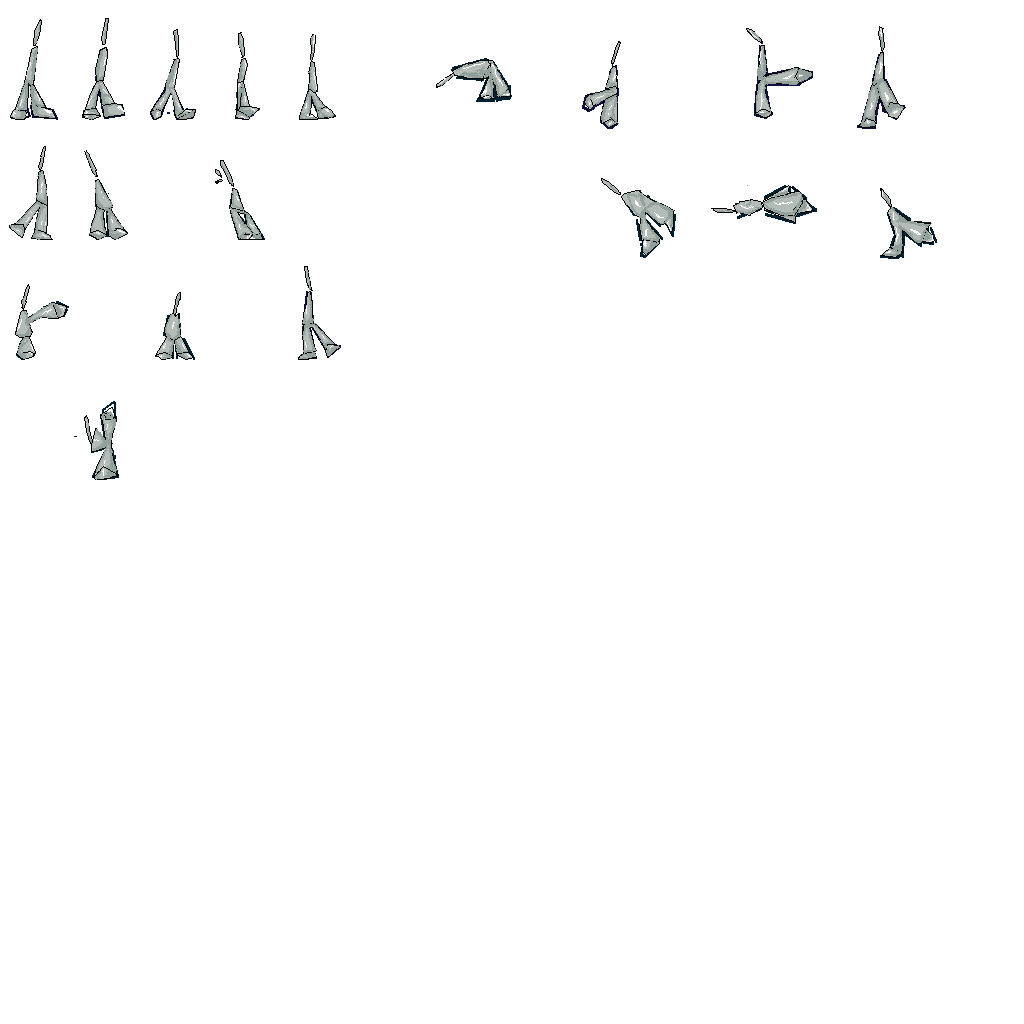
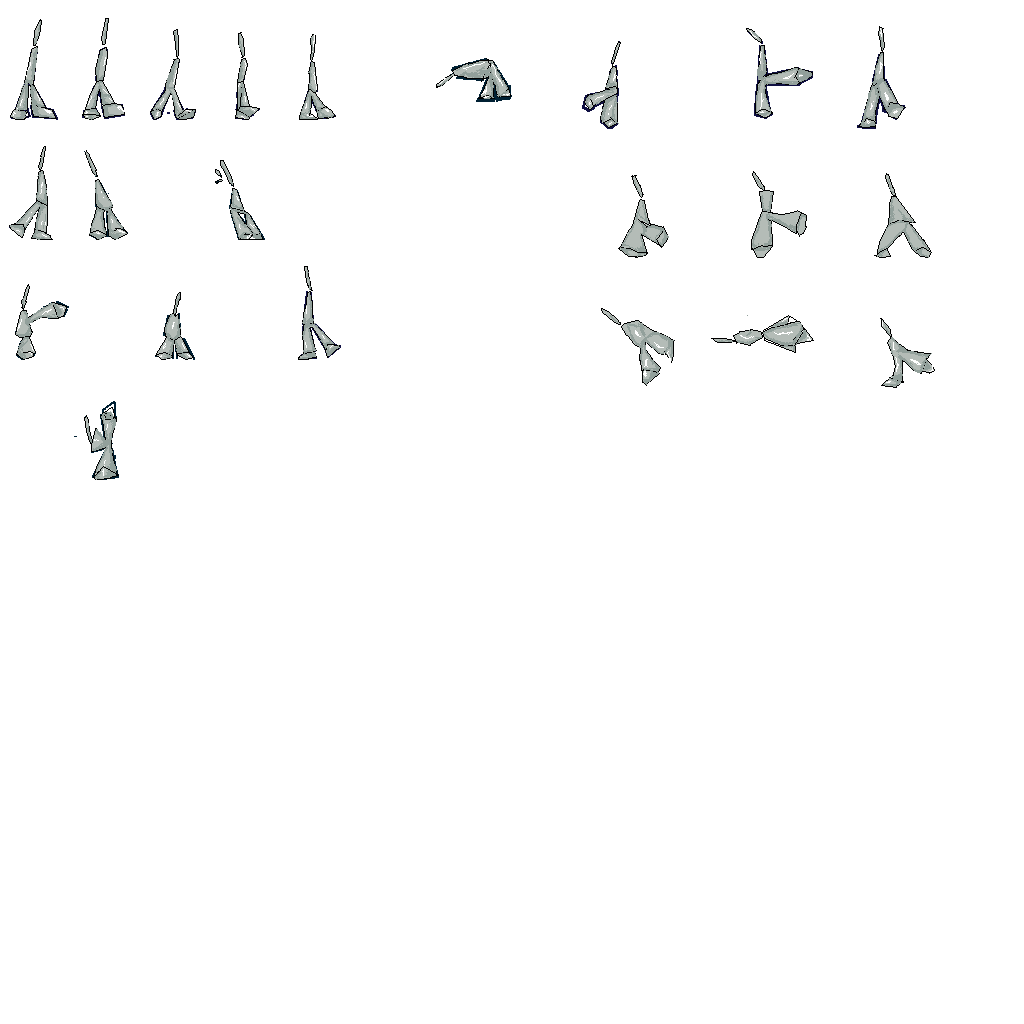
attack animation

diff --git a/src/audio.ts b/src/audio.ts
@@ -83,8 +83,8 @@ function VSound(_sounds) {
 	}
 
 
-	return (_, loop = false) => {
-    return playSound(_sounds[_], 1, 0, .1, loop)
+	return (_, loop = false, volume = 0.1) => {
+    return playSound(_sounds[_], 1, 0, volume, loop)
 	}
 }
 
@@ -92,10 +92,10 @@ function VSound(_sounds) {
 
 let cool = 0
 
-export function psfx(n: number, loop: boolean) {
+export function psfx(n: number, loop: boolean, volume: number) {
 
   if (cool <= 0) {
-    return sfx(n, loop)
+    return sfx(n, loop, volume)
   }
   cool += ticks.sixth
 

diff --git a/src/animstate.ts b/src/animstate.ts
@@ -38,7 +38,7 @@ let _ff = [
   `bw@140,0,70,120 3`,
   `d@0,120,70,120 1`,
   `bd@284,240,70,120 1`,
-  `att@576,0,124,130 3`,
+  `att@576,130,124,130 3`,
   `dam@70,120,70,120 1`,
   `tt@0,0,70,120 1`,
   `ko@210,120,70,120 1`,

diff --git a/src/play.ts b/src/play.ts
@@ -1038,7 +1038,7 @@ class Audio extends WithPlays {
       this._gen = true
       generate(() => {
         this._ready = true
-        psfx(2, true)
+        psfx(2, true, 0.01)
       })
     }
 

diff --git a/TODO.md b/TODO.md
@@ -11,3 +11,8 @@
 - Sound
 - Different Characters - AI
 
+# 3rd day
+
+- Background desaturate
+- Menu - instructions - congratz
+- Kick delay
